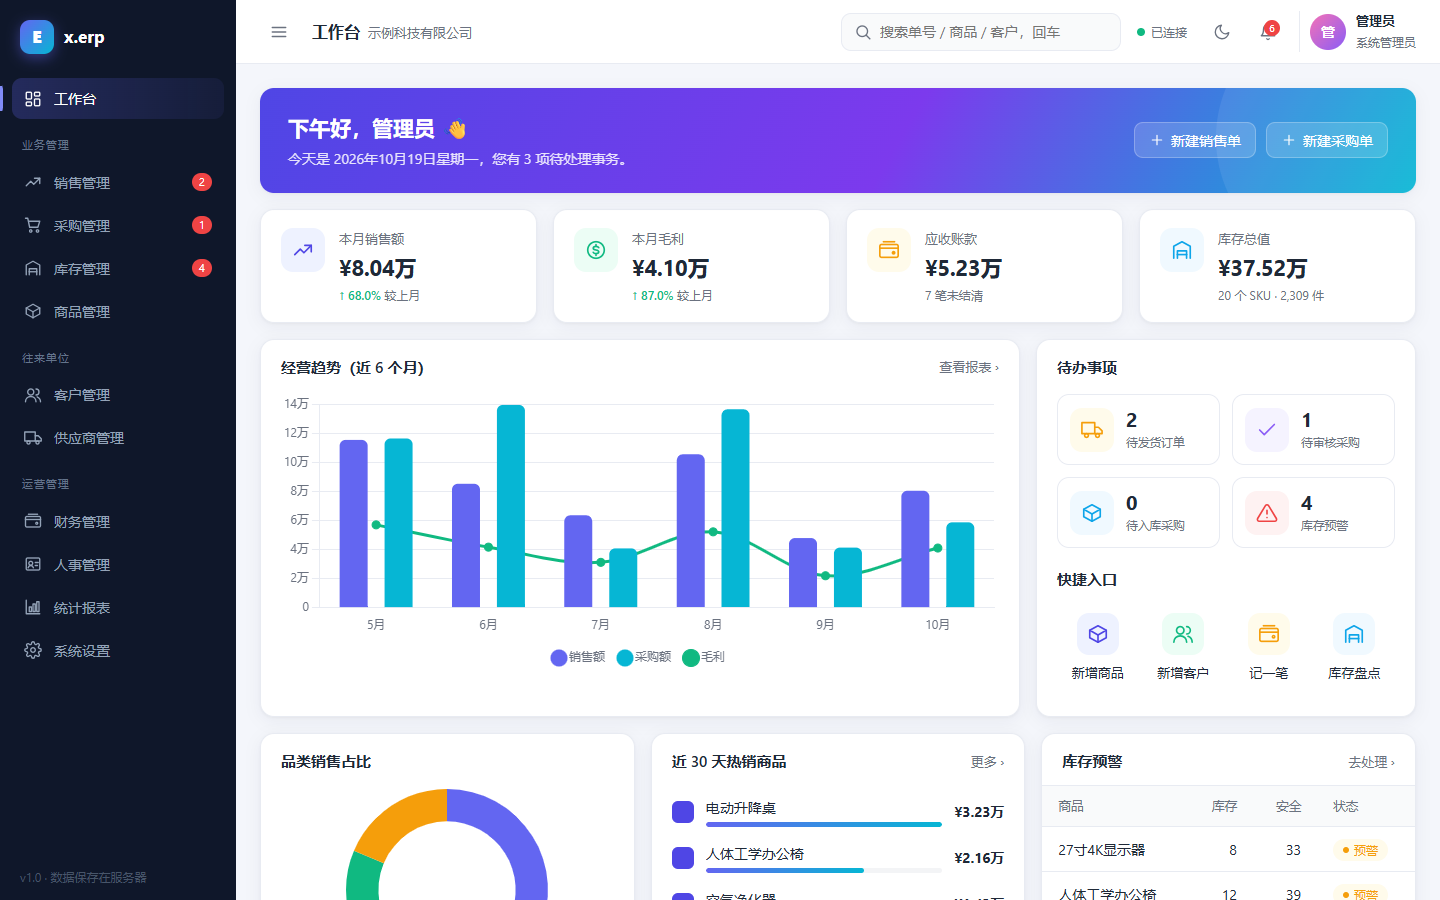
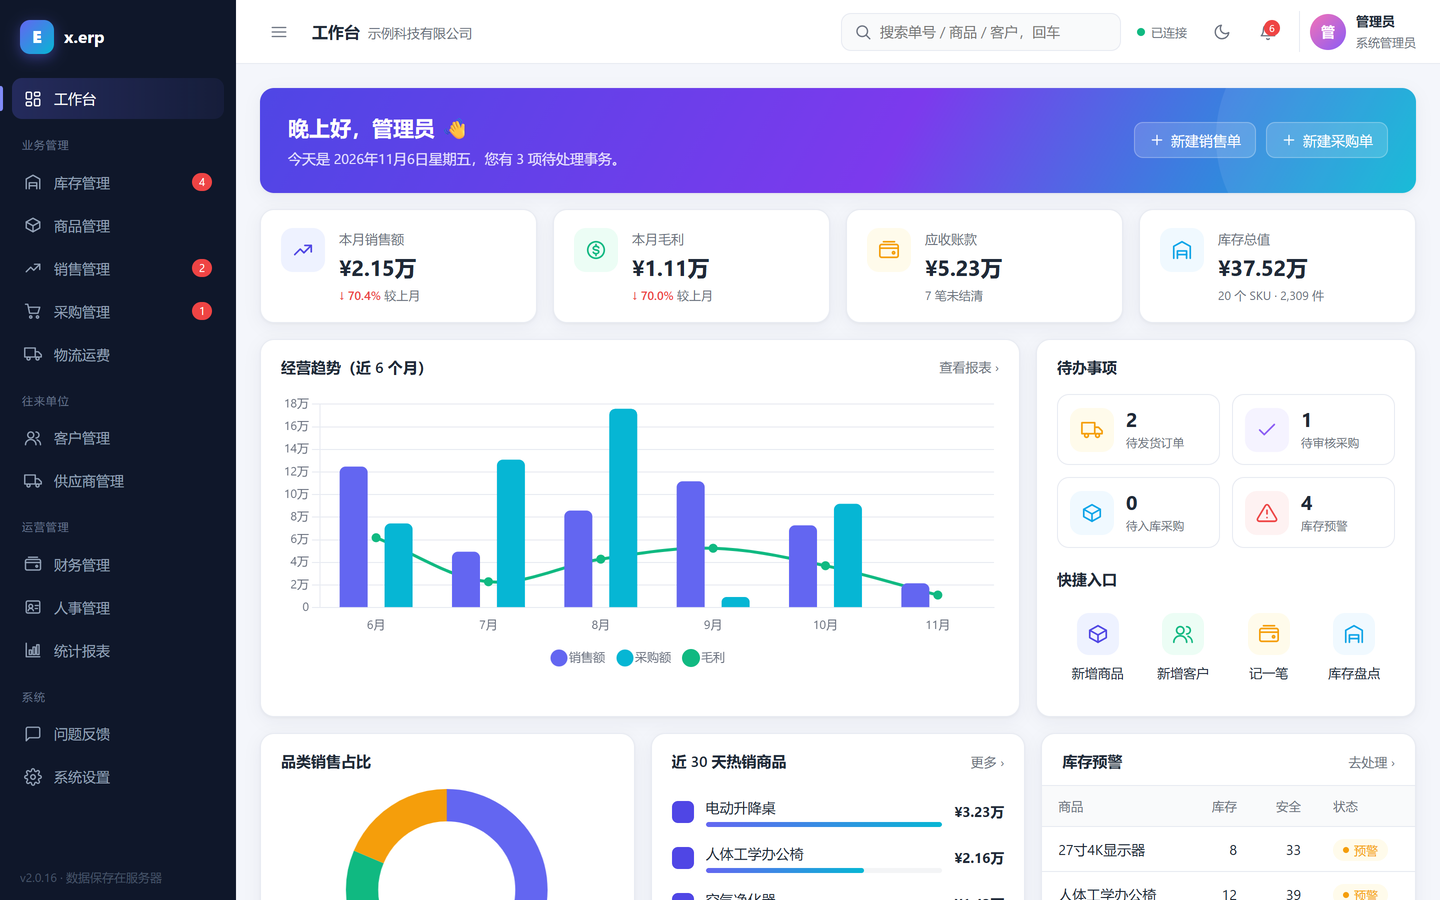
README：更新截图（含收款记录、手机端），补一段英文简介

diff --git a/README.md b/README.md
@@ -8,9 +8,15 @@
 - **在线演示**：<https://demo.zhaoyoucai.xyz>（账号 `admin`，密码 `admin123`；所有人共用，数据每小时重置）
 - **官网与下载**：<https://www.zhaoyoucai.xyz/xerp/>（飞牛 fpk / Windows 安装包 / 安卓客户端）
 
-| 工作台 | 库存 | 销售 |
-|---|---|---|
-| ![工作台](docs/screenshots/dashboard.png) | ![库存](docs/screenshots/inventory.png) | ![销售](docs/screenshots/sales.png) |
+> **English**: x.erp is a free, open-source (AGPL-3.0) self-hosted inventory / ERP for small businesses — products, purchase & sales orders, returns, payments, multi-warehouse stock, finance and reports. Runs on fnOS, Docker (Synology, QNAP, Unraid, CasaOS / ZimaOS) or any machine with Node.js 22+. The UI is in Simplified Chinese.
+
+| 工作台 | 库存 |
+|---|---|
+| ![工作台](docs/screenshots/dashboard.png) | ![库存](docs/screenshots/inventory.png) |
+| **销售** | **收款记录** |
+| ![销售](docs/screenshots/sales.png) | ![收款记录](docs/screenshots/payments.png) |
+
+<p align="center"><img src="docs/screenshots/mobile.png" width="260" alt="手机端"></p>
 
 ## 功能
 
